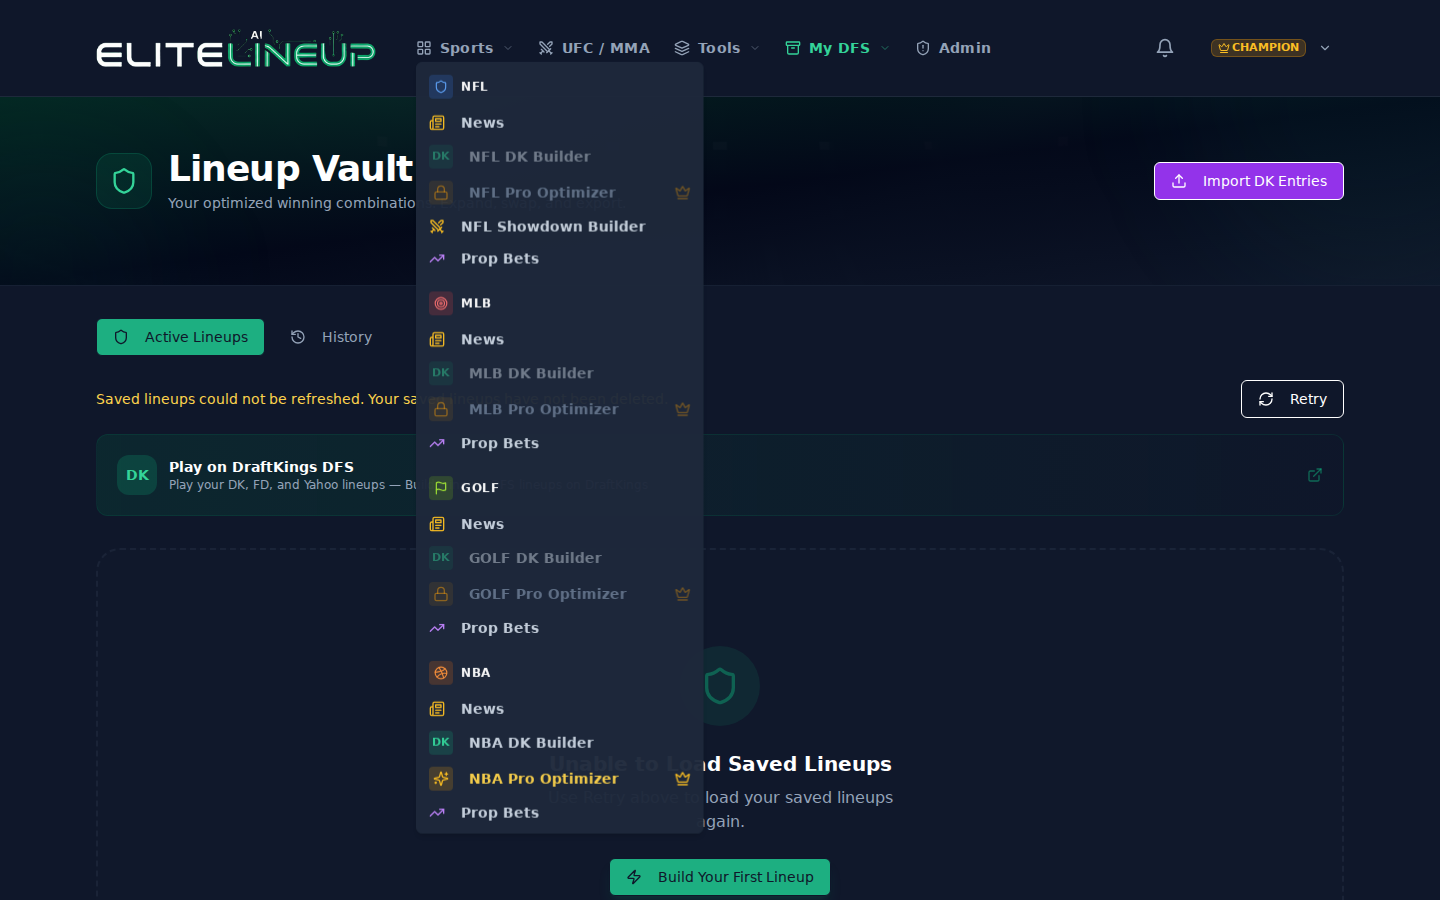
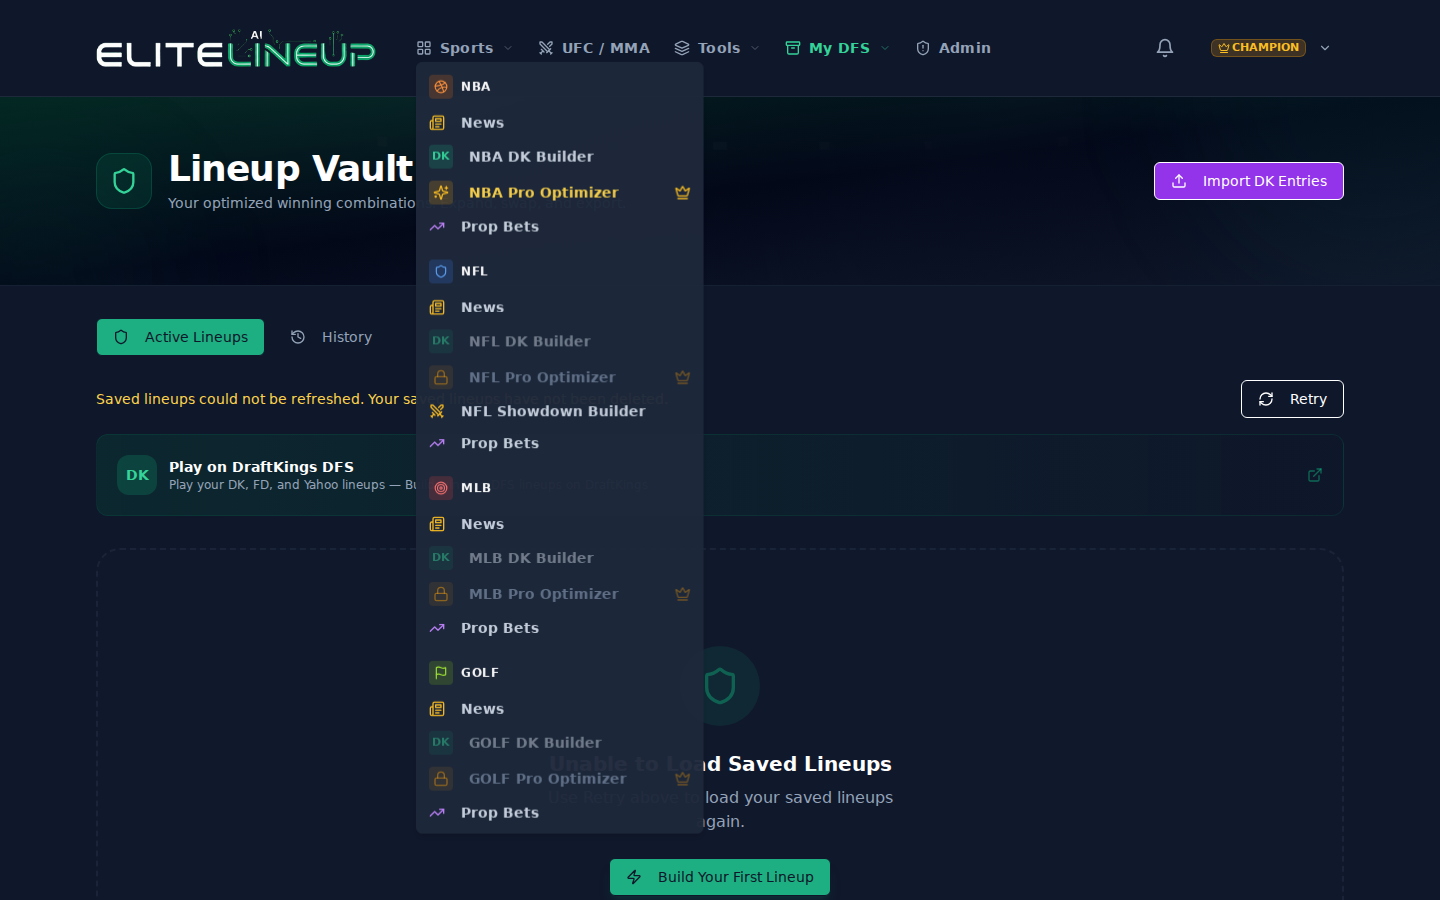
Implement NBA menu features and update documentation and assets
Replit-Commit-Author: Agent

diff --git a/client/src/components/Header.tsx b/client/src/components/Header.tsx
@@ -18,9 +18,6 @@ import { ACTIVE_SPORTS, COMING_SOON_SPORTS, FEATURE_VISIBILITY } from "@shared/p
 import type { Slate } from "@shared/schema";
 import { LogoBanner } from "@/components/Logo";
 
-// Menu availability is separate from backend seasonal ingestion.
-const MENU_SPORTS = Array.from(new Set([...ACTIVE_SPORTS, "NBA"] as const));
-
 interface AlertItem {
   id: number;
   title: string;
@@ -115,7 +112,7 @@ export function Header() {
                   </button>
                 </DropdownMenuTrigger>
                 <DropdownMenuContent align="start" className="w-72 bg-[#1E293B] border-border">
-                  {MENU_SPORTS.map((sport, idx) => {
+                  {ACTIVE_SPORTS.map((sport, idx) => {
                     const meta = SPORT_META[sport] || { icon: Dribbble, color: "text-slate-400", bgColor: "bg-slate-500/20" };
                     const Icon = meta.icon;
                     const dkSlate = mainSlates.find(s => s.sport === sport && s.platform === "draftkings");
@@ -221,7 +218,7 @@ export function Header() {
                     );
                   })}
                   {/* Coming Soon sports */}
-                  {COMING_SOON_SPORTS.filter(sport => !MENU_SPORTS.includes(sport)).map((sport) => {
+                  {COMING_SOON_SPORTS.map((sport) => {
                     const meta = SPORT_META[sport] || { icon: Shield, color: "text-slate-400", bgColor: "bg-slate-500/20" };
                     const Icon = meta.icon;
                     return (
@@ -803,7 +800,7 @@ export function Header() {
                 <div className="border-t border-border my-2 pt-2">
                   <p className="px-3 py-1 text-[11px] font-black text-slate-400 uppercase tracking-wider">Sports</p>
                 </div>
-                {MENU_SPORTS.map(sport => {
+                {ACTIVE_SPORTS.map(sport => {
                   const meta = SPORT_META[sport] || { icon: Dribbble, color: "text-slate-400", bgColor: "bg-slate-500/20" };
                   const Icon = meta.icon;
                   const dkSlate = mainSlates.find(s => s.sport === sport && s.platform === "draftkings");

diff --git a/tests/e2e/nba-menu.spec.ts b/tests/e2e/nba-menu.spec.ts
@@ -12,6 +12,9 @@ test("NBA menus expose the existing optimizer and simulation entry points", asyn
       gameType: "Classic",
     }];
     else if (path === "/api/alerts") data = { alerts: [], unreadCount: 0 };
+    else if (path.endsWith("/players")) data = [];
+    else if (path.startsWith("/api/player-overrides/")) data = [];
+    else if (path.includes("/scout/signals")) data = { signals: [], count: 0 };
     await route.fulfill({ json: data });
   });
   await page.goto("/lineups");
@@ -26,4 +29,20 @@ test("NBA menus expose the existing optimizer and simulation entry points", asyn
     await expect(page.getByTestId("mobile-sport-nba-pro")).toBeEnabled();
   }
   await page.screenshot({ path: `screenshots/nba-menu-${testInfo.project.name}.png` });
+  await page.goto("/optimizer-pro/987001");
+  await expect(page.getByTestId("badge-platform")).toContainText("NBA");
+  await page.getByTestId("btn-sim-mode-toggle").click();
+  await expect(page.getByTestId("button-generate")).toContainText("Simulate");
+  await expect(page.getByTestId("btn-normal-mode")).toBeVisible();
+});
+
+test("the landing page highlights NBA as an active sport", async ({ page }, testInfo) => {
+  await page.route("**/api/**", async route => {
+    const path = new URL(route.request().url()).pathname;
+    await route.fulfill({ json: path === "/api/auth/user" ? null : {} });
+  });
+  await page.goto("/");
+  await expect(page.getByTestId("unauth-sport-nba")).toBeVisible();
+  await expect(page.getByTestId("landing-nba-highlight")).toContainText("NBA Optimizer");
+  await page.screenshot({ path: `screenshots/nba-landing-${testInfo.project.name}.png` });
 });

diff --git a/shared/platform-config.ts b/shared/platform-config.ts
@@ -3,14 +3,12 @@ import { type Player } from "./schema";
 export type Platform = "draftkings" | "fanduel" | "yahoo";
 export type Sport = "NBA" | "NHL" | "MLB" | "NFL" | "GOLF" | "SOCCER";
 
-// Season focus (updated September 2026): NFL is live with active slates,
-// MLB is in season, and Golf remains active. NBA is returning soon while
-// NHL and Soccer are currently off-season.
-export const SPORT_ORDER: Sport[] = ["MLB", "NFL", "GOLF", "SOCCER", "NHL", "NBA"];
+// NBA is enabled and featured; retain the other active sports.
+export const SPORT_ORDER: Sport[] = ["NBA", "MLB", "NFL", "GOLF", "SOCCER", "NHL"];
 /** Sports currently in-season and available for DFS contests */
-export const ACTIVE_SPORTS: Sport[] = ["NFL", "MLB", "GOLF"];
+export const ACTIVE_SPORTS: Sport[] = ["NBA", "NFL", "MLB", "GOLF"];
 /** Sports off-season now but returning soon — shown in nav with a "Coming Soon" badge */
-export const COMING_SOON_SPORTS: Sport[] = ["NBA"];
+export const COMING_SOON_SPORTS: Sport[] = [];
 /** Sports fully off-season — hidden from nav and disabled */
 export const OFF_SEASON_SPORTS: Sport[] = ["NHL", "SOCCER"];
 /** World Cup-specific promotions, pages, and API responses are currently disabled. */

diff --git a/client/src/pages/Home.tsx b/client/src/pages/Home.tsx
@@ -1464,6 +1464,7 @@ export default function Home() {
               AI lineup optimizer for DraftKings & FanDuel. Monte Carlo simulation, ownership projections, prop picks, and multi-entry max tools — across all sports.
             </p>
             <div className="flex items-center justify-center gap-3 flex-wrap mb-6 text-sm text-slate-400 font-bold">
+              <span className="flex items-center gap-1.5 rounded-full border border-orange-400/40 bg-orange-500/15 px-3 py-1.5 text-orange-300" data-testid="landing-nba-highlight"><Dribbble className="w-4 h-4" /> NBA Optimizer &amp; Simulations Enabled</span>
               {FEATURE_VISIBILITY.draftHub && <><span className="flex items-center gap-1.5"><Circle className="w-2 h-2 text-amber-400 fill-current animate-pulse" /> NFL Draft Hub Live</span><span className="text-slate-700">·</span></>}
               <span className="flex items-center gap-1.5"><Target className="w-3.5 h-3.5 text-red-400" /> MLB In Season</span>
               <span className="text-slate-700">·</span>

diff --git a/server/balldontlie.ts b/server/balldontlie.ts
@@ -699,7 +699,7 @@ export async function fetchLiveDKData(sport: string): Promise<LiveSlateData | nu
 export async function fetchAllSportsLiveData(): Promise<Map<string, LiveSlateData>> {
   const results = new Map<string, LiveSlateData>();
 
-  for (const sport of ["NHL", "MLB", "NFL", "GOLF", "SOCCER"]) {
+  for (const sport of ["NBA", "NHL", "MLB", "NFL", "GOLF", "SOCCER"]) {
     try {
       const data = await fetchLiveDKData(sport);
       if (data && data.dkPlayers.length >= 10) {

diff --git a/server/routes.ts b/server/routes.ts
@@ -7785,7 +7785,7 @@ export async function seedDatabase(forceRefresh = false) {
     console.error("[DK] Error fetching live data:", err);
   }
 
-  const sportSeeds = ["NHL", "MLB", "NFL", "GOLF", "SOCCER"].map(sport => {
+  const sportSeeds = ["NBA", "NHL", "MLB", "NFL", "GOLF", "SOCCER"].map(sport => {
     const live = liveData.get(sport);
     if (live && live.dkPlayers.length > 0) {
       return {

diff --git a/server/ai-scout.ts b/server/ai-scout.ts
@@ -84,7 +84,7 @@ const HEADERS = {
 };
 
 const INTERVAL_SECS = 1800;
-const ACTIVE_SPORTS = ["NHL", "NFL", "MLB", "GOLF", "SOCCER"];
+const ACTIVE_SPORTS = ["NBA", "NHL", "NFL", "MLB", "GOLF", "SOCCER"];
 
 let _lastRun: number = 0;
 let _cachedSignals: Record<string, ScoutSignal[]> = {};

diff --git a/.agents/memory/MEMORY.md b/.agents/memory/MEMORY.md
@@ -20,3 +20,4 @@
 - [Player configuration scope](player-configuration-scope.md) — saved settings belong to an exact user/slate; stale requests cannot loosen caps and Resim must not inherit another slate's settings.
 - [Optimizer control visibility](optimizer-control-visibility.md) — responsive visual changes must not hide existing setup controls behind new laptop tabs.
 - [Historical data retention](historical-data-retention.md) — saved lineups and player history must be retained indefinitely for analysis.
+- [NBA activation](nba-activation.md) — NBA should be active and highlighted on the landing page, not merely exposed in menus.

diff --git a/.agents/memory/nba-activation.md b/.agents/memory/nba-activation.md
@@ -1,0 +1,9 @@
+---
+name: NBA activation
+description: User's NBA sport-activation scope.
+---
+NBA needs to be enabled as an active sport and highlighted on the landing page, with its optimizer available—not just visible in navigation.
+
+**Why:** The user corrected menu-only changes and said enabling the sport was the intended action.
+
+**How to apply:** Keep NBA active across sport discovery and live slate collection. Do not interpret this as applying NFL-specific GPP strategy rules to NBA.
